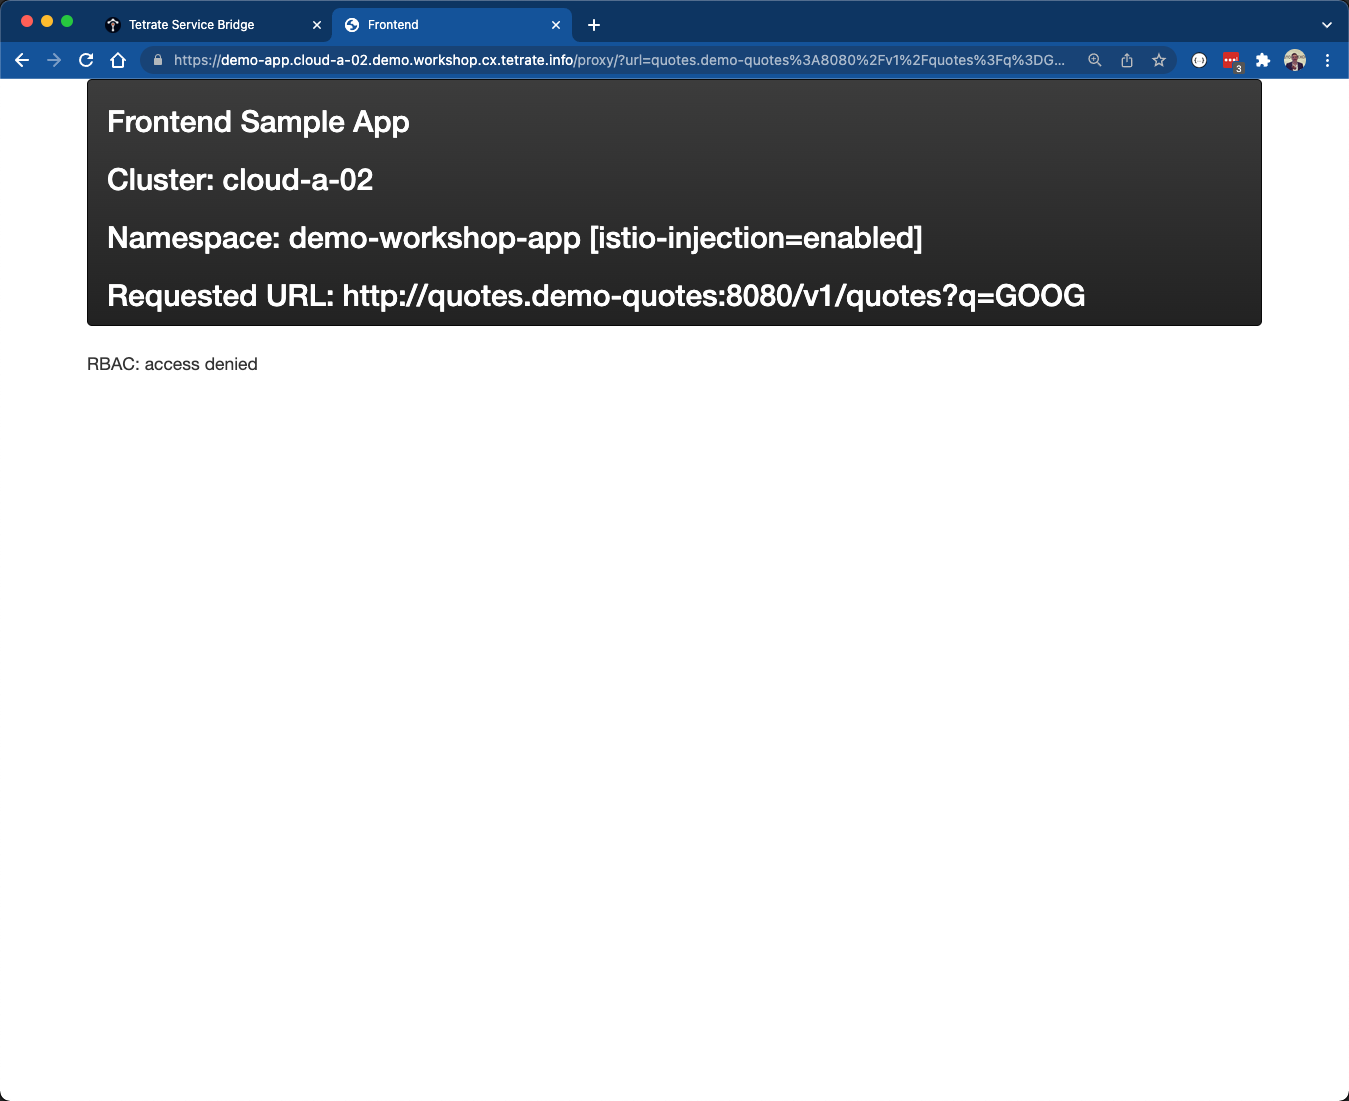
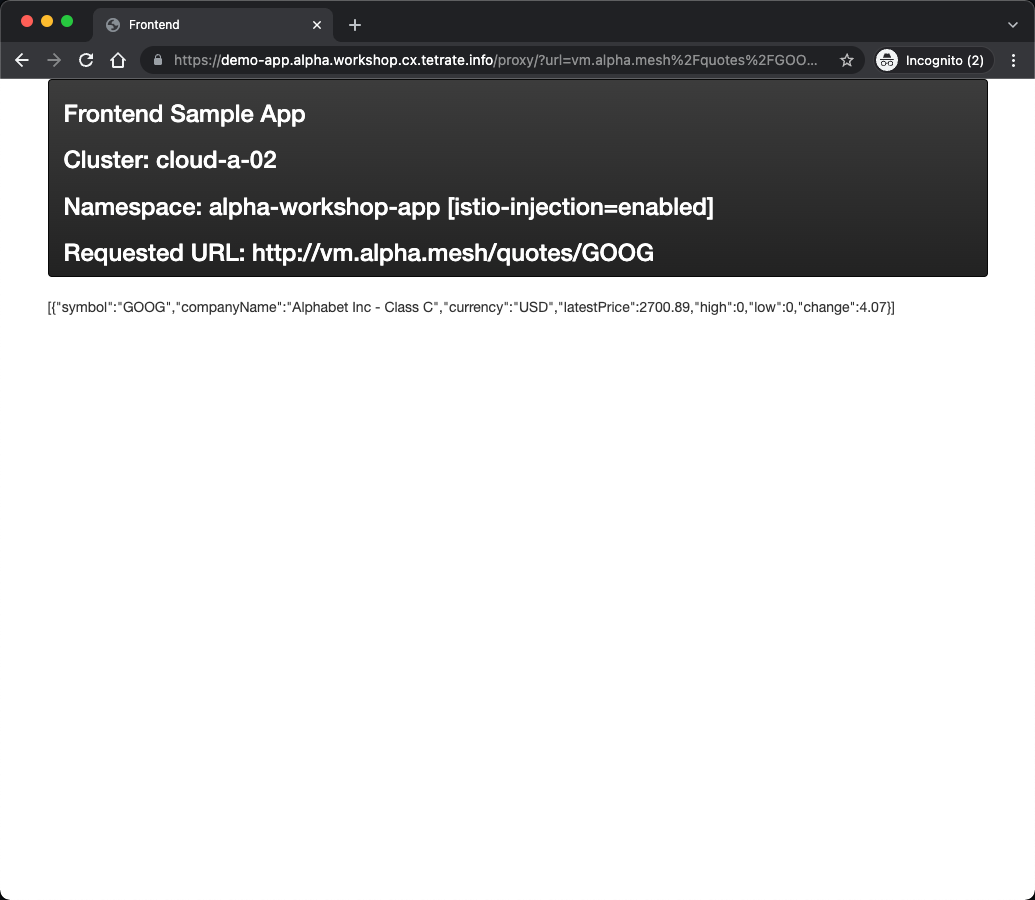
updated authz/n docs

Changed region(s): [[0.0, 0.0, 1.0, 0.3422], [0.9894, 0.9956, 1.0, 1.0], [0.0, 0.9956, 0.0309, 1.0]]

diff --git a/06-app-security-s2s/README.md b/06-app-security-s2s/README.md
@@ -49,7 +49,7 @@ curl -i quotes.$PREFIX-quotes:8080/quotes/GOOG
 The message `Recv failure: Connection reset by peer` is indiciative of our request being rejected because we did not provide a valid client certificate.
 
 # Configure Service to Service Authorization
-Lets verify that the inter-mesh traffic is still functioning between our demo-app, which has been the frontend app we have been utilizing in a browser, and the market data service.  Open a browser and navigate to https://demo-app.cloud-a-01.$PREFIX.workshop.cx.tetrate.info (replace $PREFIX with your actual prefix and make sure you're using https not http). In the Backend HTTP URL field enter the following url, which will invoke the market data service: `quotes.$PREFIX-quotes:8080/quotes/GOOG` (again, replace $PREFIX with your actual prefix). We should see a response from either our VM backend or the pod, since our traffic is load balanced between the 2.  This is still functional because it is traffic within the mesh and the demo-app frontend is able to present a valid service identity in the form of a client ceritificate.  
+Lets verify that the inter-mesh traffic is still functioning between our demo-app, which has been the frontend app we have been utilizing in a browser, and the market data service.  Open a browser and navigate to https://demo-app.$PREFIX.workshop.cx.tetrate.info (replace $PREFIX with your actual prefix and make sure you're using https not http). In the Backend HTTP URL field enter the following url, which will invoke the market data service: `vm.$PREFIX.mesh/quotes/GOOG` (again, replace $PREFIX with your actual prefix). We should see a response from either our VM backend or the pod, since our traffic is load balanced between the 2.  This is still functional because it is traffic within the mesh and the demo-app frontend is able to present a valid service identity in the form of a client ceritificate.  
 
 ![Base Diagram](../docs/06-security-authn1.png)
 
@@ -183,7 +183,13 @@ Additionally, we'll update the mesh configuration to expose an external endpoint
 envsubst < 06-app-security-s2s/05-mesh-config.yaml | tctl apply -f - 
 ```
 
-Out service is now available from anywhere, a browser or curl command, outside the cluster.
+Our service is now available from anywhere, a browser or curl command, outside the cluster.  Prior to invoking the service make sure DNS has propagated:
+
+```bash
+nslookup quotes.$PREFIX.workshop.cx.tetrate.info
+```
+
+Then test the service:
 
 ```bash
 curl -i https://quotes.$PREFIX.workshop.cx.tetrate.info/quotes/GOOG
